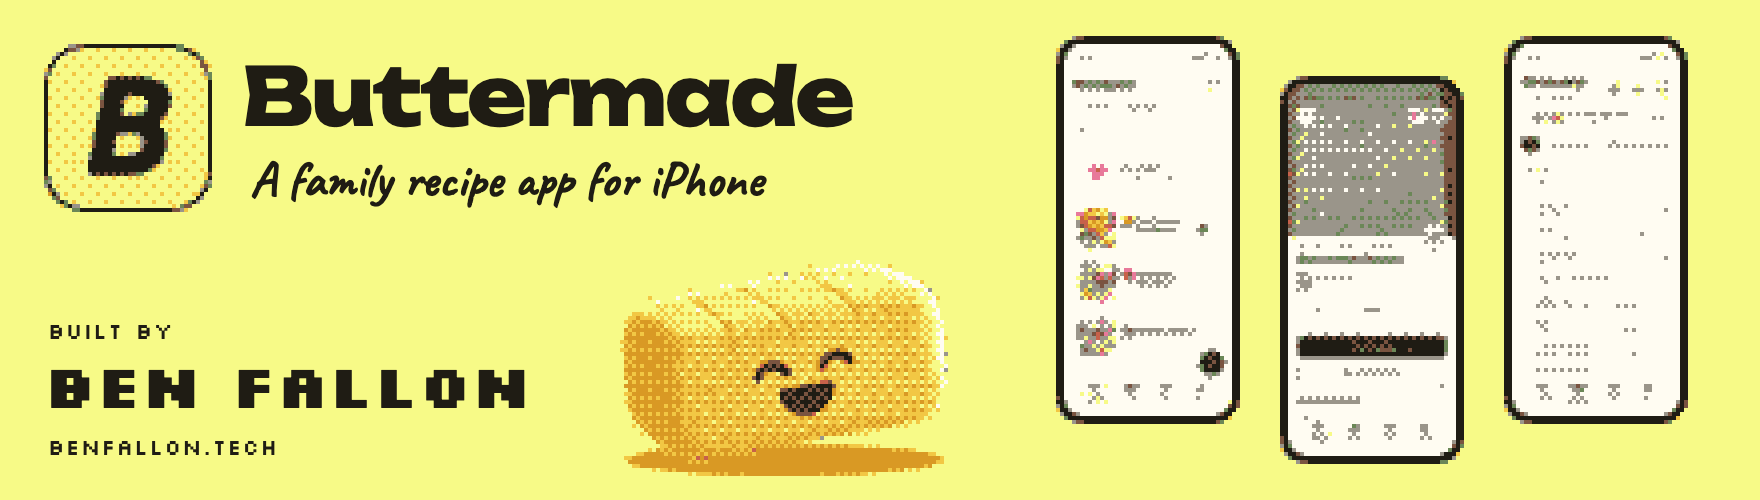
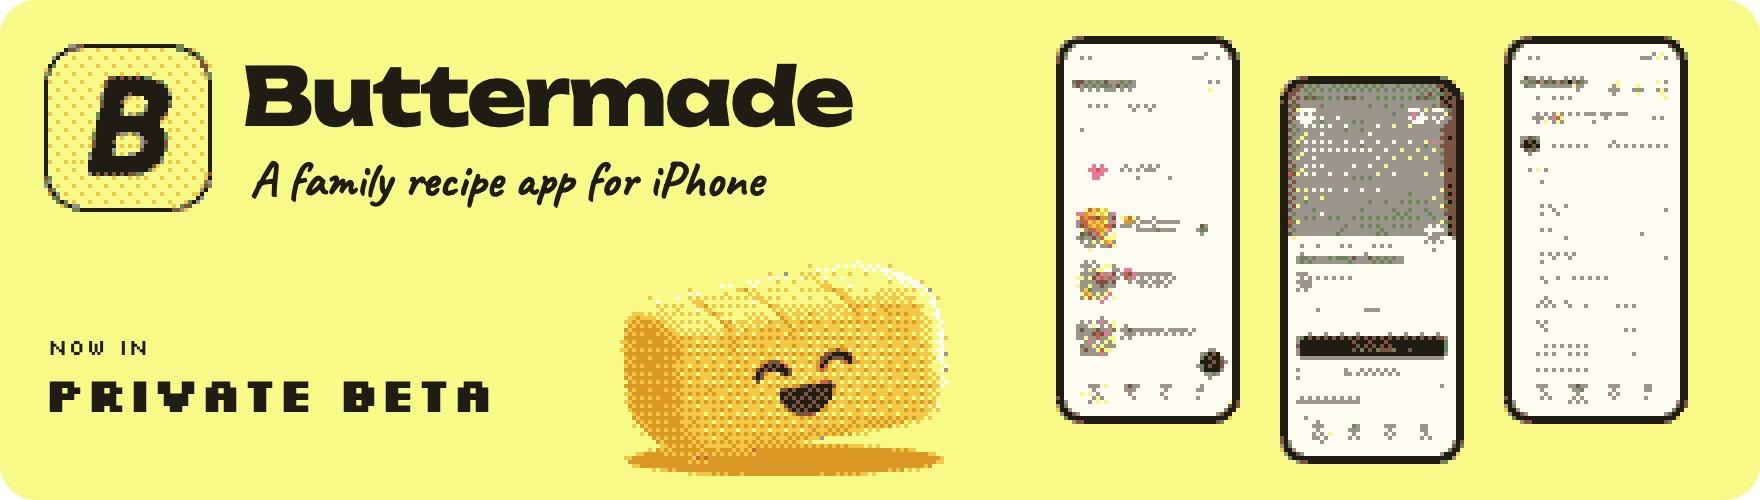
Introduce myself and list my apps
The profile was a single Buttermade banner, which read as a product ad. It now opens with a short intro, shows Buttermade under Now building with a smaller banner, and lists the other apps.

diff --git a/README.md b/README.md
@@ -1,1 +1,18 @@
-[![Buttermade, a family recipe app for iPhone, built by Ben Fallon. The banner shows the app icon, its butter character and three screens: cookbooks, a recipe and a grocery list.](banner.png)](https://benfallon.tech)
+### Hi, I'm Ben.
+
+I build native Android and iOS apps, and I care as much about how they look and feel as how they work. Demos and screenshots of everything below are at [benfallon.tech](https://benfallon.tech).
+
+#### Now building
+
+<a href="https://buttermade.buttr.studio"><img src="banner.png" width="640" alt="Buttermade, a family recipe app for iPhone, now in private beta. The banner shows the app icon, its butter character and three screens: cookbooks, a recipe and a grocery list."></a>
+
+**[Buttermade](https://buttermade.buttr.studio)** is a cookbook a family shares on iPhone. Each recipe keeps a photo of the original card, and anyone in the family can cook from it, save their own version and see what everyone else has been making. It is in private beta on TestFlight.
+
+#### Other apps
+
+- **[Pushups for iOS](https://apps.apple.com/us/app/pushups-track-your-progress/id6742363164)** is a pushup tracker where logging a set takes one tap. It has charts, daily goals and streaks, and needs no account. On the App Store.
+- **Pushups for Android** is the same tracker, built again in Kotlin and Jetpack Compose.
+- **[Design Eat Repeat](https://www.designeatrepeat.com)** is a native iOS app for my sister Melissa's food blog and its 15 years of recipes.
+- **Midstate Vet** is an iOS and Android app that a veterinary clinic uses for billing and time tracking during farm calls.
+
+I'm glad to hear about senior Android and mobile engineering roles. [LinkedIn](https://www.linkedin.com/in/benfallon) is the best way to reach me.
